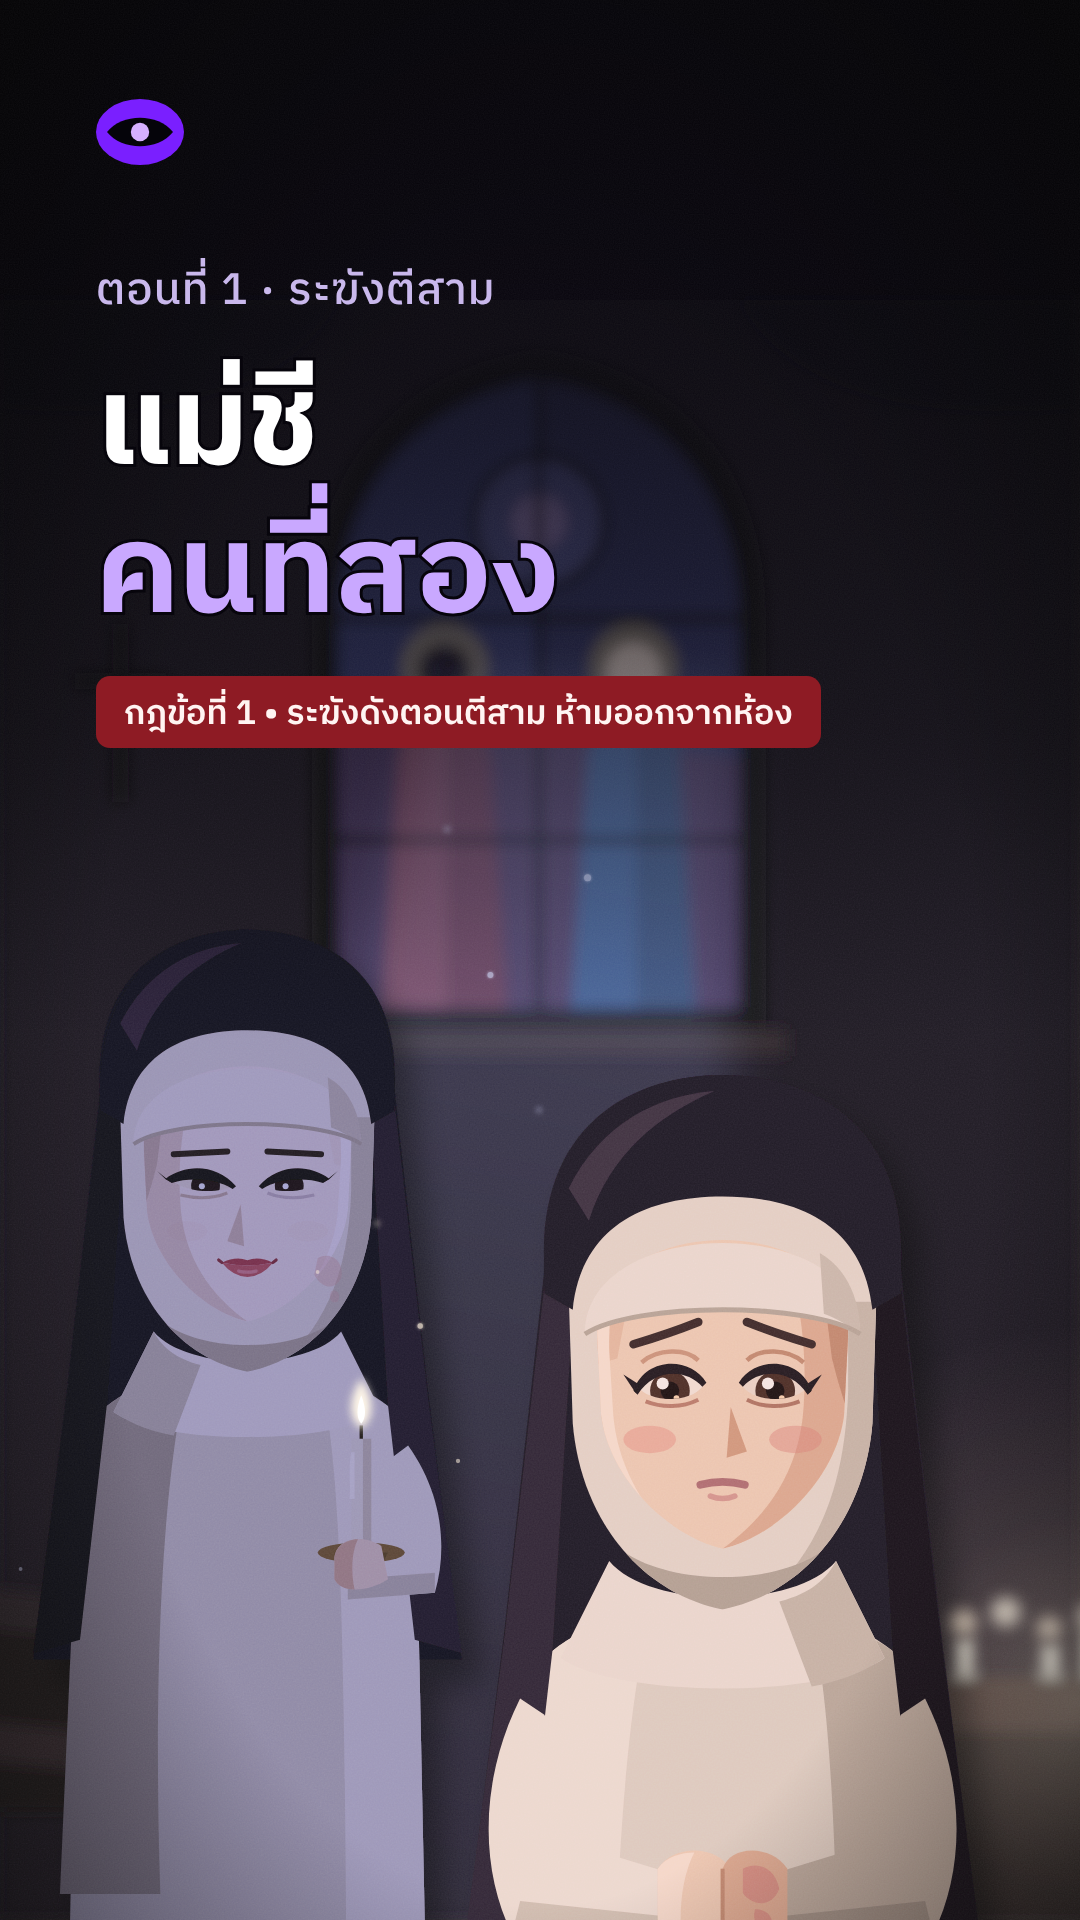
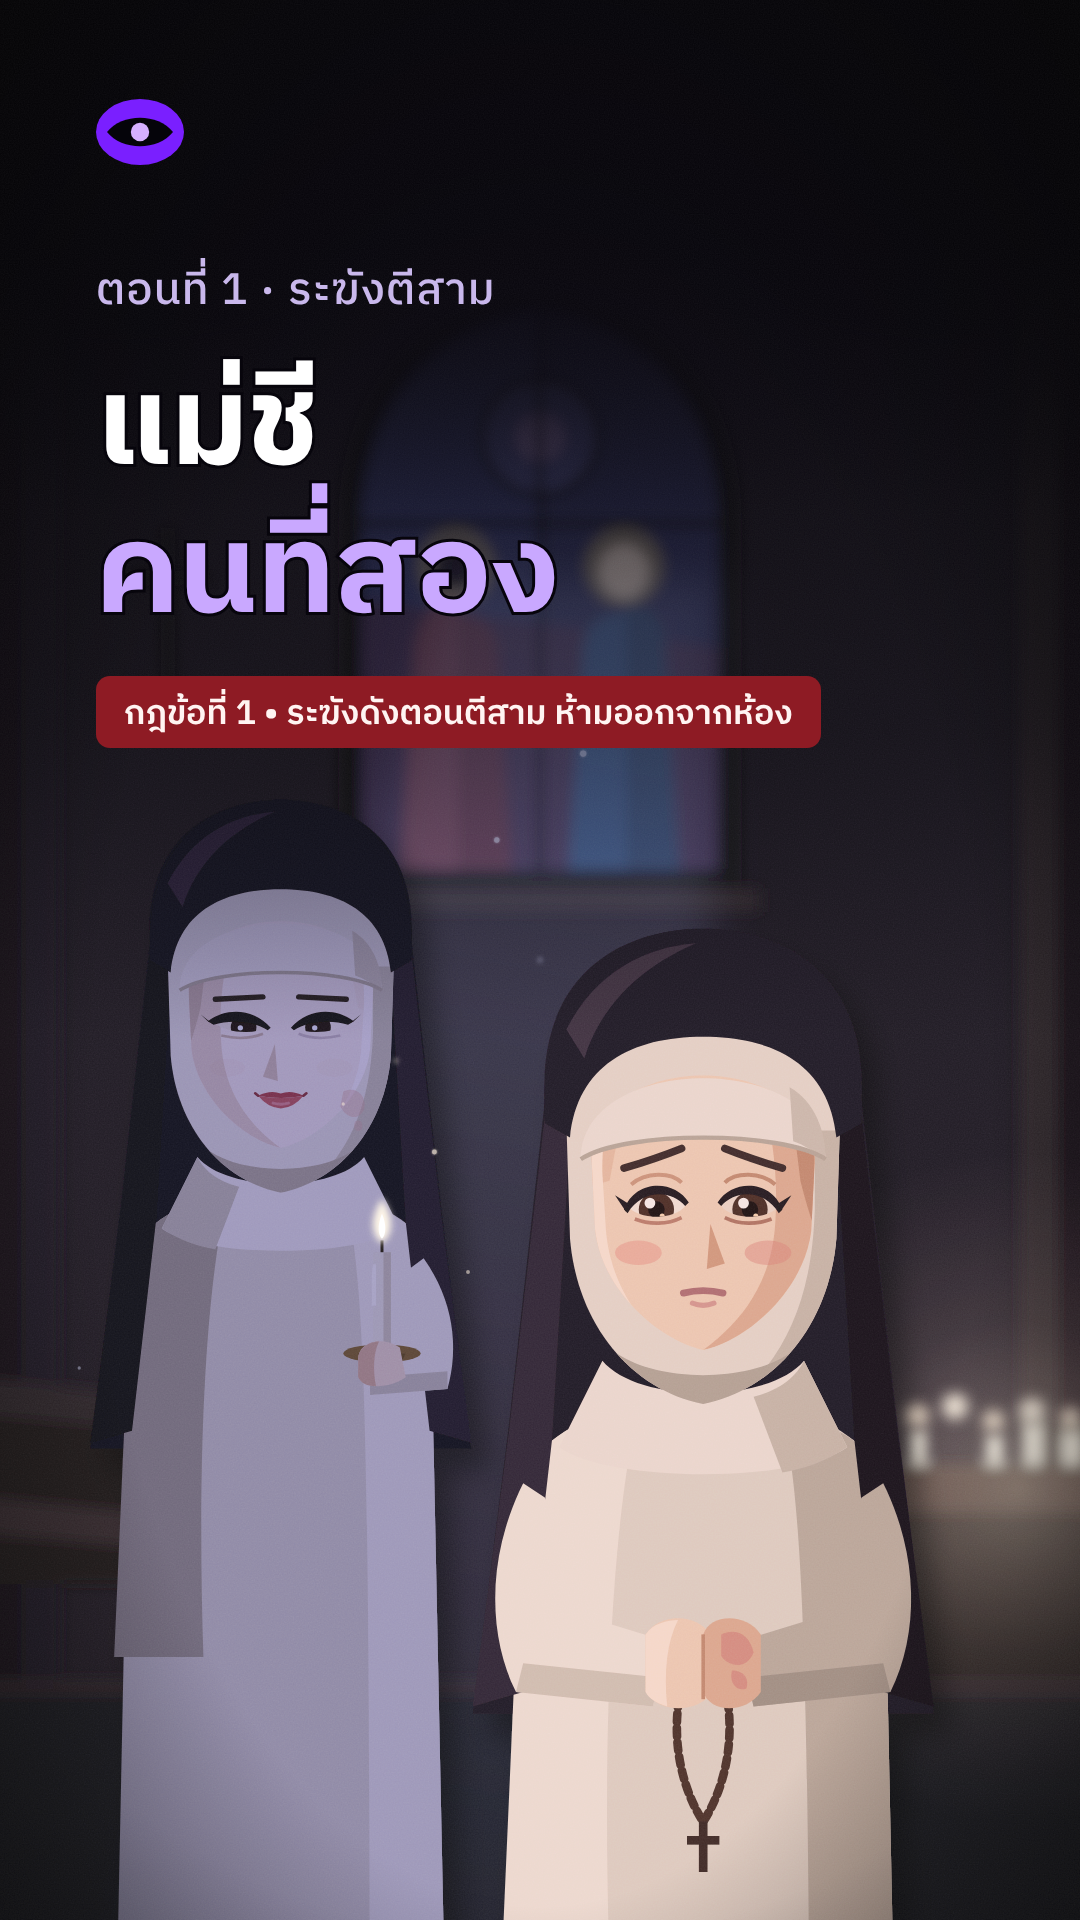
Cover EP1: sisters moved up into frame, top edge blended
Claude-Session: https://claude.ai/code/session_01Ma1ny1W3C2Xt7U3stRr7M3

Changed region(s): [[0.0306, 0.3125, 1.0, 1.0], [0.3972, 0.2812, 0.6417, 0.375], [0.4583, 0.25, 0.5194, 0.2812]]

diff --git a/cover/cover.html b/cover/cover.html
@@ -1721,6 +1721,7 @@
 <radialGradient id="halo"><stop offset="0" stop-color="#cfc4ff" stop-opacity=".22"/><stop offset="1" stop-color="#cfc4ff" stop-opacity="0"/></radialGradient>
 <linearGradient id="scr" x1="0" y1="0" x2="1" y2="1"><stop offset="0" stop-color="#4a3fa0"/><stop offset=".55" stop-color="#2a2370"/><stop offset=".56" stop-color="#332a80"/><stop offset="1" stop-color="#1b1650"/></linearGradient>
 <linearGradient id="topfade" x1="0" y1="0" x2="0" y2="1"><stop offset="0" stop-color="#05030a" stop-opacity=".9"/><stop offset=".7" stop-color="#05030a" stop-opacity=".45"/><stop offset="1" stop-color="#05030a" stop-opacity="0"/></linearGradient>
+<linearGradient id="seam" x1="0" y1="0" x2="0" y2="1"><stop offset="0" stop-color="#07050c"/><stop offset="1" stop-color="#07050c" stop-opacity="0"/></linearGradient>
 <radialGradient id="vig" cx="50%" cy="58%" r="75%"><stop offset=".55" stop-color="#000" stop-opacity="0"/><stop offset="1" stop-color="#000" stop-opacity=".7"/></radialGradient>
 <filter id="lilac" color-interpolation-filters="sRGB"><feColorMatrix type="matrix" values="0.92 0 0 0 0.02  0 0.84 0 0 0.01  0 0 1.0 0 0.06  0 0 0 1 0"/></filter>
 <filter id="soft" x="-200%" y="-200%" width="500%" height="500%"><feGaussianBlur stdDeviation="1.2"/></filter>
@@ -1728,7 +1729,8 @@
 <filter id="grain" filterUnits="userSpaceOnUse" x="0" y="0" width="540" height="960"><feTurbulence type="fractalNoise" baseFrequency="1.9" numOctaves="1" seed="4"/><feColorMatrix type="saturate" values="0"/></filter>
 </defs>
 <rect width="540" height="960" fill="url(#bg)"/>
-<g transform="translate(-95,150) scale(1.35)"><use href="#chapelArt"/></g>
+<g transform="translate(-54,120) scale(1.2)"><use href="#chapelArt"/></g>
+<rect width="540" height="124" fill="#07050c"/><rect y="118" width="540" height="140" fill="url(#seam)"/>
 <rect width="540" height="520" fill="url(#topfade)"/>
 <rect width="540" height="960" fill="url(#vig)"/>
 <rect width="540" height="960" filter="url(#grain)" opacity=".07" style="mix-blend-mode:screen"/>

diff --git a/cover/cover_v3_ss_ep1_low.py b/cover/cover_v3_ss_ep1_low.py
@@ -1,0 +1,120 @@
+"""Odd Hours cover template (1080x1920). Fixed slots: eye logo top-left, episode label, two-line title with one
+highlighted word, small dark-red rule tag. Only the art layer and the texts change per episode.
+usage: python3 cover.py  -> cover.html ; then node render_cover.js -> ../out/cover.png"""
+import json, random
+
+# per-episode: texts + which art to use. Earlier cover (ตีสี่ EP1) is kept in cover_v2_4am_ep1.py
+SERIES = 'second-sister'
+EP = {
+    'episode': 'ตอนที่ 1 · ระฆังตีสาม',
+    'title1': 'แม่ชี',
+    'title2_before': '', 'title2_hl': 'คนที่สอง', 'title2_after': '',
+    'rule': 'กฎข้อที่ 1 • ระฆังดังตอนตีสาม ห้ามออกจากห้อง',
+}
+
+# ---- fixed template slots (540x960 design units, rendered x2) ----
+SLOT = dict(margin_left=48, margin_right=48, logo=(48 + 22, 66), episode_y=152, title1_y=232, title2_y=306,
+            title_size=62, episode_size=22, rule_y=338, rule_h=36, rule_size=17)
+
+r = random.Random(5)
+motes = ''.join(f'<circle cx="{r.uniform(80,360):.0f}" cy="{r.uniform(600,900):.0f}" r="{r.uniform(0.7,1.8):.1f}" '
+                f'opacity="{r.uniform(.25,.85):.2f}" fill="#e9dcff"{" filter=\"url(#soft)\"" if r.random() < .4 else ""}/>' for _ in range(26))
+planks = ''.join(f'<line x1="{x}" y1="420" x2="{x - 60}" y2="960" stroke="#120a18" stroke-opacity=".55" stroke-width="2"/>' for x in range(0, 640, 52))
+
+ART = f'''
+<rect width="540" height="960" fill="url(#bg)"/>
+<!-- back wall: dim bedroom, a window of city lights at the right edge, blurred -->
+<g filter="url(#soft6)" opacity=".8">
+  <rect x="402" y="380" width="150" height="230" fill="#110c1c"/><rect x="410" y="388" width="134" height="214" fill="#1b1838"/>
+  {''.join(f'<rect x="{410+(k*37)%120}" y="{430+(k*53)%150}" width="5" height="7" fill="#ffd9a0" opacity=".5"/>' for k in range(14))}
+  <rect x="-10" y="430" width="120" height="330" fill="#1a1222"/>
+</g>
+<!-- James behind the desk, lit from below by the phone -->
+<g filter="url(#lilac)"><use href="#jbodySNHL" transform="translate(372,600) scale(1.78)"/></g>
+<ellipse cx="300" cy="720" rx="260" ry="220" fill="url(#halo)" style="mix-blend-mode:screen"/>
+<!-- desk -->
+<path d="M0,760 L540,748 L540,960 L0,960 Z" fill="url(#desk)"/><path d="M0,760 L540,748 L540,758 L0,770 Z" fill="#3a2a48"/>
+<g opacity=".8"><g transform="translate(470,800) rotate(8)"><rect x="-80" y="-14" width="160" height="30" rx="6" fill="#17121f"/><rect x="-80" y="12" width="160" height="3" fill="#7d5cff" opacity=".6"/></g></g>
+<ellipse cx="200" cy="860" rx="210" ry="90" fill="url(#pool)" style="mix-blend-mode:screen"/>
+<!-- the phone: hero, lying on the desk tilted toward camera -->
+<g transform="translate(205,800) rotate(-12) scale(1,0.9)">
+  <rect x="-104" y="-200" width="208" height="400" rx="30" fill="#05040a" opacity=".55" transform="translate(14,18)" filter="url(#soft6)"/>
+  <rect x="-104" y="-200" width="208" height="400" rx="30" fill="#0b0a12"/>
+  <rect x="-104" y="-200" width="208" height="400" rx="30" fill="none" stroke="#6a6590" stroke-width="2"/>
+  <rect x="-96" y="-192" width="192" height="384" rx="24" fill="url(#scr)"/>
+  <text x="0" y="-104" text-anchor="middle" class="t" font-size="54" font-weight="600" fill="#f4f1ff">04:00</text>
+  <text x="0" y="-78" text-anchor="middle" class="t" font-size="12" fill="#b8b0de">วันพฤหัสบดี</text>
+  <rect x="-80" y="-52" width="160" height="66" rx="13" fill="#f2effa" fill-opacity=".96"/>
+  <circle cx="-62" cy="-30" r="9" fill="#7a1fff"/><path d="M-66,-30 l3,3 l6,-6" stroke="#fff" stroke-width="2" fill="none"/>
+  <text x="-46" y="-26" class="t" font-size="10" fill="#4a4670">ธนาคาร · ตอนนี้</text>
+  <text x="-68" y="-6" class="t" font-size="15" font-weight="600" fill="#14111f">เงินเข้า +333.07 บาท</text>
+  <text x="-68" y="8" class="t" font-size="9.5" fill="#5a5578">จากบัญชีที่ไม่รู้จัก</text>
+  <path d="M -96,80 L 96,-10 L 96,40 L -96,130 Z" fill="#ffffff" opacity=".05"/>
+</g>
+<circle cx="205" cy="760" r="150" fill="url(#halo)" style="mix-blend-mode:screen"/>
+<g>{motes}</g>
+<rect width="540" height="470" fill="url(#topfade)"/>
+<rect width="540" height="960" fill="url(#vig)"/>
+<rect width="540" height="960" filter="url(#grain)" opacity=".09" style="mix-blend-mode:screen"/>
+<rect width="540" height="960" filter="url(#grain)" opacity=".06" style="mix-blend-mode:overlay"/>
+'''
+
+if SERIES == 'second-sister':   # art from episodes/second-sister/cover/make_art_ep1.py (the chapel frame, current cast)
+    ART = '''
+<rect width="540" height="960" fill="url(#bg)"/>
+<g transform="translate(-95,150) scale(1.35)"><use href="#chapelArt"/></g>
+<rect width="540" height="520" fill="url(#topfade)"/>
+<rect width="540" height="960" fill="url(#vig)"/>
+<rect width="540" height="960" filter="url(#grain)" opacity=".07" style="mix-blend-mode:screen"/>
+'''
+
+S = SLOT
+TEXT = f'''
+<g id="logo" transform="translate({S['logo'][0]},{S['logo'][1]})"><ellipse rx="22" ry="16.5" fill="#7a1fff"/>
+  <path d="M -16.5,0 C -9,-9.5 9,-9.5 16.5,0 C 9,9.5 -9,9.5 -16.5,0 Z" fill="#05040a"/><circle r="4.6" fill="#d6b0ff"/></g>
+<text id="episode" x="{S['margin_left']}" y="{S['episode_y']}" class="t" font-size="{S['episode_size']}" font-weight="500" fill="#c9b8ec" letter-spacing=".5">{EP['episode']}</text>
+<g class="t" font-weight="700" font-size="{S['title_size']}" fill="#ffffff" stroke="#07050c" stroke-width="3" paint-order="stroke">
+  <text id="title1" x="{S['margin_left']}" y="{S['title1_y']}">{EP['title1']}</text>
+  <text id="title2" x="{S['margin_left']}" y="{S['title2_y']}">{EP['title2_before']}<tspan fill="#c9a8ff">{EP['title2_hl']}</tspan>{EP['title2_after']}</text>
+</g>
+<g id="rule" transform="translate({S['margin_left']},{S['rule_y']})">
+  <rect width="0" height="{S['rule_h']}" rx="7" fill="#8e1b24"/>
+  <text x="14" y="{S['rule_h']/2 + S['rule_size']*0.36:.1f}" class="t" font-size="{S['rule_size']}" font-weight="600" fill="#fff4f2">{EP['rule']}</text>
+</g>
+'''
+
+DEFS = '''<defs>
+<linearGradient id="bg" x1="0" y1="0" x2="0" y2="1"><stop offset="0" stop-color="#07050c"/><stop offset=".45" stop-color="#120a1c"/><stop offset="1" stop-color="#1c1028"/></linearGradient>
+<linearGradient id="desk" x1="0" y1="0" x2="1" y2="1"><stop offset="0" stop-color="#241830"/><stop offset=".6" stop-color="#1a1124"/><stop offset="1" stop-color="#0e0814"/></linearGradient>
+<radialGradient id="pool"><stop offset="0" stop-color="#b9a8ff" stop-opacity=".55"/><stop offset=".55" stop-color="#8f7bff" stop-opacity=".18"/><stop offset="1" stop-color="#8f7bff" stop-opacity="0"/></radialGradient>
+<radialGradient id="halo"><stop offset="0" stop-color="#cfc4ff" stop-opacity=".22"/><stop offset="1" stop-color="#cfc4ff" stop-opacity="0"/></radialGradient>
+<linearGradient id="scr" x1="0" y1="0" x2="1" y2="1"><stop offset="0" stop-color="#4a3fa0"/><stop offset=".55" stop-color="#2a2370"/><stop offset=".56" stop-color="#332a80"/><stop offset="1" stop-color="#1b1650"/></linearGradient>
+<linearGradient id="topfade" x1="0" y1="0" x2="0" y2="1"><stop offset="0" stop-color="#05030a" stop-opacity=".9"/><stop offset=".7" stop-color="#05030a" stop-opacity=".45"/><stop offset="1" stop-color="#05030a" stop-opacity="0"/></linearGradient>
+<radialGradient id="vig" cx="50%" cy="58%" r="75%"><stop offset=".55" stop-color="#000" stop-opacity="0"/><stop offset="1" stop-color="#000" stop-opacity=".7"/></radialGradient>
+<filter id="lilac" color-interpolation-filters="sRGB"><feColorMatrix type="matrix" values="0.92 0 0 0 0.02  0 0.84 0 0 0.01  0 0 1.0 0 0.06  0 0 0 1 0"/></filter>
+<filter id="soft" x="-200%" y="-200%" width="500%" height="500%"><feGaussianBlur stdDeviation="1.2"/></filter>
+<filter id="soft6" x="-30%" y="-30%" width="160%" height="160%"><feGaussianBlur stdDeviation="8"/></filter>
+<filter id="grain" filterUnits="userSpaceOnUse" x="0" y="0" width="540" height="960"><feTurbulence type="fractalNoise" baseFrequency="1.9" numOctaves="1" seed="4"/><feColorMatrix type="saturate" values="0"/></filter>
+</defs>'''
+
+CHAR = open('char_defs.svg.html').read()
+if SERIES == 'second-sister': CHAR += open('../episodes/second-sister/cover/art_ep1.svg.html').read()
+for c in ('blinkJ', 'blinkT', 'blinkC', 'mouthJ', 'mouthT'):          # stills: eyes open, mouths at rest
+    CHAR = CHAR.replace(f'<g class="{c}">', f'<g class="{c}" display="none">')
+html = f'''<!doctype html><meta charset="utf-8"><title>Odd Hours cover</title>
+<link rel="stylesheet" href="https://fonts.googleapis.com/css2?family=IBM+Plex+Sans+Thai:wght@400;500;600;700&display=swap">
+<style>html,body{{margin:0;background:#000}}svg{{display:block;width:540px;height:960px}}.t{{font-family:"IBM Plex Sans Thai","Noto Sans Thai",sans-serif}}</style>
+{CHAR}<svg id="cover" viewBox="0 0 540 960" xmlns="http://www.w3.org/2000/svg">{DEFS}{ART}{TEXT}</svg>
+<script>
+// size the red rule tag to its text, and check the title fits inside the right margin
+document.fonts.ready.then(() => {{
+  const g = document.querySelector('#rule'), t = g.querySelector('text');
+  g.querySelector('rect').setAttribute('width', (t.getBBox().width + 28).toFixed(1));
+  const maxR = 540 - {S['margin_right']};
+  for (const id of ['title1', 'title2']) {{ const b = document.getElementById(id).getBBox(); if (b.x + b.width > maxR) document.body.dataset.overflow = id; }}
+  document.body.dataset.ready = '1';
+}});
+</script>'''
+open('cover.html', 'w').write(html)
+json.dump(dict(slots=SLOT, episode=EP), open('cover_template.json', 'w'), ensure_ascii=False, indent=1)
+print('cover.html built')

diff --git a/cover/cover.py b/cover/cover.py
@@ -62,7 +62,8 @@ ART = f'''
 if SERIES == 'second-sister':   # art from episodes/second-sister/cover/make_art_ep1.py (the chapel frame, current cast)
     ART = '''
 <rect width="540" height="960" fill="url(#bg)"/>
-<g transform="translate(-95,150) scale(1.35)"><use href="#chapelArt"/></g>
+<g transform="translate(-54,120) scale(1.2)"><use href="#chapelArt"/></g>
+<rect width="540" height="124" fill="#07050c"/><rect y="118" width="540" height="140" fill="url(#seam)"/>
 <rect width="540" height="520" fill="url(#topfade)"/>
 <rect width="540" height="960" fill="url(#vig)"/>
 <rect width="540" height="960" filter="url(#grain)" opacity=".07" style="mix-blend-mode:screen"/>
@@ -90,6 +91,7 @@ DEFS = '''<defs>
 <radialGradient id="halo"><stop offset="0" stop-color="#cfc4ff" stop-opacity=".22"/><stop offset="1" stop-color="#cfc4ff" stop-opacity="0"/></radialGradient>
 <linearGradient id="scr" x1="0" y1="0" x2="1" y2="1"><stop offset="0" stop-color="#4a3fa0"/><stop offset=".55" stop-color="#2a2370"/><stop offset=".56" stop-color="#332a80"/><stop offset="1" stop-color="#1b1650"/></linearGradient>
 <linearGradient id="topfade" x1="0" y1="0" x2="0" y2="1"><stop offset="0" stop-color="#05030a" stop-opacity=".9"/><stop offset=".7" stop-color="#05030a" stop-opacity=".45"/><stop offset="1" stop-color="#05030a" stop-opacity="0"/></linearGradient>
+<linearGradient id="seam" x1="0" y1="0" x2="0" y2="1"><stop offset="0" stop-color="#07050c"/><stop offset="1" stop-color="#07050c" stop-opacity="0"/></linearGradient>
 <radialGradient id="vig" cx="50%" cy="58%" r="75%"><stop offset=".55" stop-color="#000" stop-opacity="0"/><stop offset="1" stop-color="#000" stop-opacity=".7"/></radialGradient>
 <filter id="lilac" color-interpolation-filters="sRGB"><feColorMatrix type="matrix" values="0.92 0 0 0 0.02  0 0.84 0 0 0.01  0 0 1.0 0 0.06  0 0 0 1 0"/></filter>
 <filter id="soft" x="-200%" y="-200%" width="500%" height="500%"><feGaussianBlur stdDeviation="1.2"/></filter>
